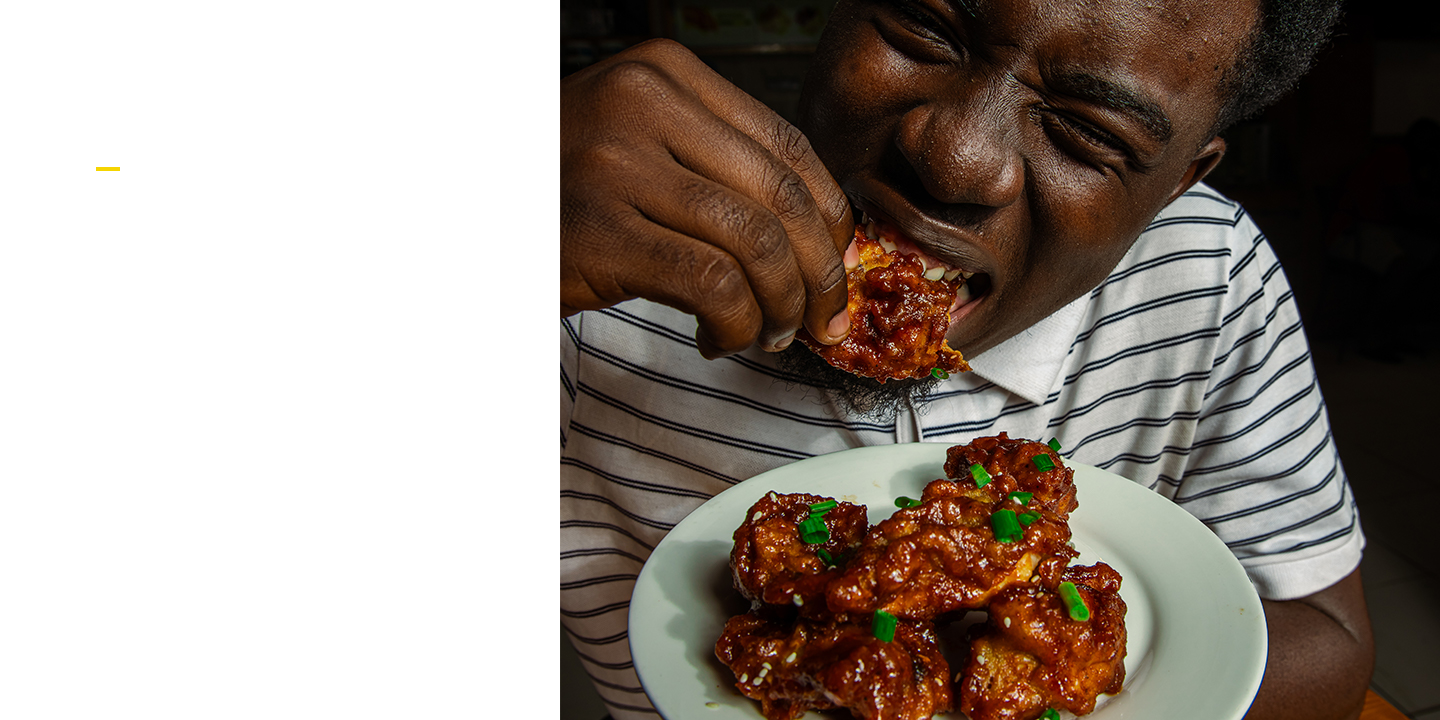
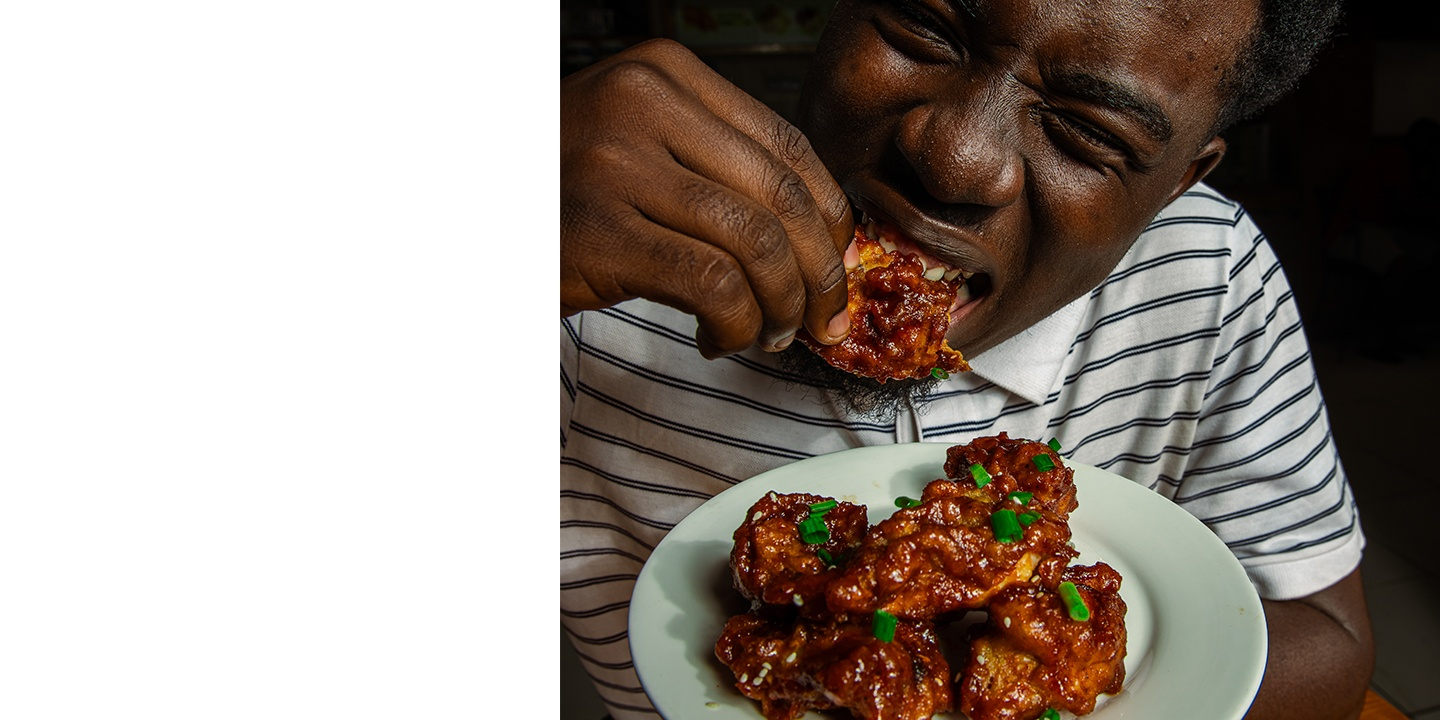
Refactor hero slider to full 1440x720 canvas with fading transition and single pill control

diff --git a/src/app/basilissa/page.tsx b/src/app/basilissa/page.tsx
@@ -2,7 +2,7 @@
 
 import { useState, useEffect, useCallback } from 'react';
 import Image from 'next/image';
-import { motion, AnimatePresence, type Variants } from 'framer-motion';
+import { motion, AnimatePresence } from 'framer-motion';
 
 interface HeroSlide {
   id: string;
@@ -159,21 +159,17 @@ const FOOD_ITEMS: FoodItem[] = [
 
 export default function BasilissaPage() {
   const [activeFood, setActiveFood] = useState<FoodItem>(FOOD_ITEMS[0]);
-  const [[currentSlide, direction], setSlidePage] = useState<[number, number]>([0, 0]);
+  const [currentSlide, setCurrentSlide] = useState(0);
   const [isHeroPaused, setIsHeroPaused] = useState(false);
   const [touchStartX, setTouchStartX] = useState<number | null>(null);
 
   const paginateHero = useCallback((newDirection: number) => {
-    setSlidePage(([prev]) => {
+    setCurrentSlide((prev) => {
       let nextIndex = prev + newDirection;
       if (nextIndex < 0) nextIndex = HERO_SLIDES.length - 1;
       if (nextIndex >= HERO_SLIDES.length) nextIndex = 0;
-      return [nextIndex, newDirection];
+      return nextIndex;
     });
-  }, []);
-
-  const goToHeroSlide = useCallback((index: number) => {
-    setSlidePage(([prev]) => [index, index > prev ? 1 : -1]);
   }, []);
 
   useEffect(() => {
@@ -203,33 +199,6 @@ export default function BasilissaPage() {
   };
 
   const activeHeroSlide = HERO_SLIDES[currentSlide];
-
-  const heroImageVariants: Variants = {
-    enter: (dir: number) => ({
-      x: dir > 0 ? '100%' : '-100%',
-      opacity: 0,
-      scale: 1.04,
-    }),
-    center: {
-      x: '0%',
-      opacity: 1,
-      scale: 1,
-      transition: {
-        x: { type: 'spring', stiffness: 240, damping: 28 },
-        opacity: { duration: 0.5 },
-        scale: { duration: 0.7, ease: 'easeOut' },
-      },
-    },
-    exit: (dir: number) => ({
-      x: dir < 0 ? '100%' : '-100%',
-      opacity: 0,
-      scale: 0.98,
-      transition: {
-        x: { type: 'spring', stiffness: 240, damping: 28 },
-        opacity: { duration: 0.4 },
-      },
-    }),
-  };
   return (
     <>
       <style dangerouslySetInnerHTML={{ __html: `
@@ -279,27 +248,18 @@ export default function BasilissaPage() {
                     .burger span{width:24px;height:2px;background:var(--black)}
 
                     /* Hero */
-                    .hero{position:relative;display:grid;grid-template-columns:minmax(0,560fr) minmax(0,880fr);max-width:1440px;margin:0 auto;align-items:stretch;min-height:580px}
-                    .hero-copy{padding:70px 48px 70px var(--gutter);display:flex;flex-direction:column;justify-content:center;position:relative;z-index:2}
-                    .hero h1{font-size:clamp(38px,3.7vw,53px);margin-bottom:28px}
-                    .hero p{font-size:18px;max-width:430px;margin-bottom:32px}
-                    .cta-row{display:flex;gap:12px;flex-wrap:wrap;margin-bottom:32px}
-                    .hero-controls{display:flex;align-items:center;gap:16px;padding-top:16px;border-top:1px solid var(--line);max-width:440px}
-                    .hero-dots{display:flex;align-items:center;gap:8px}
-                    .hero-dot{height:8px;width:24px;border-radius:4px;background:rgba(18,19,15,.15);border:none;cursor:pointer;padding:0;transition:all .3s cubic-bezier(.16,1,.3,1)}
-                    .hero-dot:hover{background:rgba(18,19,15,.35)}
-                    .hero-dot.active{background:var(--yellow);width:44px}
-                    .hero-counter{font-family:var(--head);font-size:13px;letter-spacing:.08em;font-weight:700;color:var(--black);margin-left:auto}
-                    .hero-arrows{display:flex;align-items:center;gap:8px}
-                    .hero-nav-btn{width:36px;height:36px;border-radius:50%;background:#fff;border:1.5px solid var(--black);display:flex;align-items:center;justify-content:center;color:var(--black);cursor:pointer;transition:all .2s ease}
-                    .hero-nav-btn:hover{background:var(--yellow);border-color:var(--yellow);transform:scale(1.05)}
-                    .hero-img{position:relative;width:100%;min-height:480px;overflow:hidden;background:#12130F;user-select:none}
+                    .hero{position:relative;max-width:1440px;margin:0 auto;aspect-ratio:1440/720;width:100%;min-height:540px;overflow:hidden;background:#fff}
+                    .hero-slider{position:absolute;inset:0;width:100%;height:100%;z-index:1;user-select:none}
                     .hero-slide-item{position:absolute;inset:0;width:100%;height:100%}
-                    .hero-img img{width:100%;height:100%;object-fit:cover}
-                    .hero-img-overlay-controls{position:absolute;bottom:20px;right:20px;z-index:10;display:flex;align-items:center;gap:10px;background:rgba(18,19,15,.75);backdrop-filter:blur(8px);padding:6px 14px;border-radius:30px;color:#fff;box-shadow:0 8px 24px rgba(0,0,0,.2)}
-                    .hero-img-overlay-btn{background:none;border:none;color:#fff;cursor:pointer;display:flex;align-items:center;justify-content:center;width:26px;height:26px;border-radius:50%;transition:all .2s ease}
-                    .hero-img-overlay-btn:hover{background:var(--yellow);color:var(--black)}
-                    .hero-img-overlay-counter{font-family:var(--head);font-size:12px;font-weight:700;letter-spacing:.12em;color:#fff;padding:0 4px}
+                    .hero-slide-img{width:100%;height:100%;object-fit:cover;object-position:right center}
+                    .hero-copy{position:relative;z-index:2;width:min(560px,39%);height:100%;display:flex;flex-direction:column;justify-content:center;padding:48px 28px 48px var(--gutter);pointer-events:auto}
+                    .hero h1{font-size:clamp(34px,3.5vw,53px);margin-bottom:24px}
+                    .hero p{font-size:clamp(15px,1.25vw,18px);max-width:430px;margin-bottom:28px}
+                    .cta-row{display:flex;gap:12px;flex-wrap:wrap}
+                    .hero-pill-controls{position:absolute;bottom:28px;right:28px;z-index:10;display:flex;align-items:center;gap:10px;background:rgba(18,19,15,.78);backdrop-filter:blur(8px);-webkit-backdrop-filter:blur(8px);padding:6px 14px;border-radius:30px;color:#fff;box-shadow:0 8px 24px rgba(0,0,0,.25);border:1px solid rgba(255,255,255,.12);user-select:none}
+                    .hero-pill-btn{background:none;border:none;color:#fff;cursor:pointer;display:flex;align-items:center;justify-content:center;width:26px;height:26px;border-radius:50%;transition:all .2s ease;padding:0}
+                    .hero-pill-btn:hover{background:var(--yellow);color:var(--black);transform:scale(1.1)}
+                    .hero-pill-counter{font-family:var(--head);font-size:12px;font-weight:700;letter-spacing:.12em;color:#fff;padding:0 4px}
                     .strip{height:89px;background:var(--yellow) url(/images/basilissa/hero/strip-pattern.jpg) center/auto 100% repeat-x}
 
                     /* About */
@@ -432,8 +392,11 @@ export default function BasilissaPage() {
                     .nav ul a{display:block;padding:12px 0}
                     #menu:checked~ul{display:flex}
                     .nav>.btn{padding:12px 16px;margin-left:auto}
-                    .hero,.about .wrap,.food-grid,.food-row,.loc-head,.corp-grid,.gallery,.careers-grid,.way-head,.cta .wrap{grid-template-columns:minmax(0,1fr)}
-                    .hero-copy{padding:56px var(--gutter)}
+                    .about .wrap,.food-grid,.food-row,.loc-head,.corp-grid,.gallery,.careers-grid,.way-head,.cta .wrap{grid-template-columns:minmax(0,1fr)}
+                    .hero{aspect-ratio:auto;min-height:auto;display:flex;flex-direction:column}
+                    .hero-copy{width:100%;max-width:100%;height:auto;padding:56px var(--gutter) 40px}
+                    .hero-slider{position:relative;inset:auto;width:100%;height:380px;min-height:300px;overflow:hidden}
+                    .hero-pill-controls{bottom:18px;right:18px}
                     .about,.stand,.food,.locations,.corp,.people,.way{padding-top:80px;padding-bottom:80px}
                     .about-img{max-width:min(400px,100%)}
                     .stand-head{flex-direction:column;align-items:flex-start}
@@ -448,6 +411,8 @@ export default function BasilissaPage() {
                     footer .wrap{grid-template-columns:1fr 1fr;row-gap:40px;padding-top:64px}
                     }
                     @media (max-width:600px){
+                    .hero-slider{height:300px;min-height:250px}
+                    .hero-pill-controls{bottom:14px;right:14px}
                     .cols,.cards,.tracks,.pillars{grid-template-columns:minmax(0,1fr)}
                     .stats,.values{grid-template-columns:1fr 1fr}
                     .strip{height:60px}
@@ -490,81 +455,18 @@ export default function BasilissaPage() {
         onMouseLeave={() => setIsHeroPaused(false)}
       >
         <div className="hero">
-          <div className="hero-copy">
-            <motion.div
-              key={activeHeroSlide.id}
-              initial={{ opacity: 0.9 }}
-              animate={{ opacity: 1 }}
-              transition={{ duration: 0.35 }}
-            >
-              <div className="eyebrow">{activeHeroSlide.eyebrow}</div>
-              <h1>{activeHeroSlide.title}</h1>
-              <p>{activeHeroSlide.description}</p>
-              <div className="cta-row">
-                <a className="btn btn-black" href={activeHeroSlide.primaryCta.href}>
-                  {activeHeroSlide.primaryCta.label}
-                </a>
-                <a className="btn btn-yellow" href={activeHeroSlide.secondaryCta.href}>
-                  {activeHeroSlide.secondaryCta.label}
-                </a>
-              </div>
-            </motion.div>
-
-            <div className="hero-controls" aria-label="Hero slider controls">
-              <div className="hero-dots" role="tablist" aria-label="Slide selectors">
-                {HERO_SLIDES.map((slide, idx) => (
-                  <button
-                    key={slide.id}
-                    type="button"
-                    role="tab"
-                    aria-selected={idx === currentSlide}
-                    aria-label={`Go to slide ${idx + 1}`}
-                    onClick={() => goToHeroSlide(idx)}
-                    className={`hero-dot ${idx === currentSlide ? 'active' : ''}`}
-                  />
-                ))}
-              </div>
-              <span className="hero-counter" aria-live="polite">
-                0{currentSlide + 1} / 0{HERO_SLIDES.length}
-              </span>
-              <div className="hero-arrows">
-                <button
-                  type="button"
-                  onClick={() => paginateHero(-1)}
-                  aria-label="Previous slide"
-                  className="hero-nav-btn"
-                >
-                  <svg width="14" height="14" viewBox="0 0 24 24" fill="none" stroke="currentColor" strokeWidth="2.5" strokeLinecap="round" strokeLinejoin="round">
-                    <polyline points="15 18 9 12 15 6" />
-                  </svg>
-                </button>
-                <button
-                  type="button"
-                  onClick={() => paginateHero(1)}
-                  aria-label="Next slide"
-                  className="hero-nav-btn"
-                >
-                  <svg width="14" height="14" viewBox="0 0 24 24" fill="none" stroke="currentColor" strokeWidth="2.5" strokeLinecap="round" strokeLinejoin="round">
-                    <polyline points="9 18 15 12 9 6" />
-                  </svg>
-                </button>
-              </div>
-            </div>
-          </div>
-
           <div
-            className="hero-img"
+            className="hero-slider"
             onTouchStart={handleHeroTouchStart}
             onTouchEnd={handleHeroTouchEnd}
           >
-            <AnimatePresence custom={direction} initial={false}>
+            <AnimatePresence initial={false}>
               <motion.div
                 key={activeHeroSlide.id}
-                custom={direction}
-                variants={heroImageVariants}
-                initial="enter"
-                animate="center"
-                exit="exit"
+                initial={{ opacity: 0 }}
+                animate={{ opacity: 1 }}
+                exit={{ opacity: 0 }}
+                transition={{ duration: 0.8, ease: 'easeInOut' }}
                 className="hero-slide-item"
               >
                 <Image
@@ -572,37 +474,66 @@ export default function BasilissaPage() {
                   alt={activeHeroSlide.alt}
                   fill
                   priority={currentSlide === 0}
-                  sizes="(max-width: 900px) 100vw, 60vw"
-                  className="w-full h-full object-cover"
+                  sizes="(max-width: 960px) 100vw, 1440px"
+                  className="hero-slide-img"
                 />
               </motion.div>
             </AnimatePresence>
 
-            <div className="hero-img-overlay-controls" aria-hidden="true">
-              <button
-                type="button"
-                onClick={() => paginateHero(-1)}
-                aria-label="Previous slide"
-                className="hero-img-overlay-btn"
-              >
-                <svg width="14" height="14" viewBox="0 0 24 24" fill="none" stroke="currentColor" strokeWidth="2.5" strokeLinecap="round" strokeLinejoin="round">
-                  <polyline points="15 18 9 12 15 6" />
-                </svg>
-              </button>
-              <span className="hero-img-overlay-counter">
-                0{currentSlide + 1} / 0{HERO_SLIDES.length}
-              </span>
-              <button
-                type="button"
-                onClick={() => paginateHero(1)}
-                aria-label="Next slide"
-                className="hero-img-overlay-btn"
-              >
-                <svg width="14" height="14" viewBox="0 0 24 24" fill="none" stroke="currentColor" strokeWidth="2.5" strokeLinecap="round" strokeLinejoin="round">
-                  <polyline points="9 18 15 12 9 6" />
-                </svg>
-              </button>
+            <div style={{ display: 'none' }} aria-hidden="true">
+              {HERO_SLIDES.map((slide, idx) => (
+                idx !== currentSlide && (
+                  <Image
+                    key={`preload-${slide.id}`}
+                    src={slide.image}
+                    alt=""
+                    width={1440}
+                    height={720}
+                    priority
+                  />
+                )
+              ))}
             </div>
+          </div>
+
+          <div className="hero-copy">
+            <div className="eyebrow">{activeHeroSlide.eyebrow}</div>
+            <h1>{activeHeroSlide.title}</h1>
+            <p>{activeHeroSlide.description}</p>
+            <div className="cta-row">
+              <a className="btn btn-black" href={activeHeroSlide.primaryCta.href}>
+                {activeHeroSlide.primaryCta.label}
+              </a>
+              <a className="btn btn-yellow" href={activeHeroSlide.secondaryCta.href}>
+                {activeHeroSlide.secondaryCta.label}
+              </a>
+            </div>
+          </div>
+
+          <div className="hero-pill-controls" aria-label="Hero carousel navigation">
+            <button
+              type="button"
+              onClick={() => paginateHero(-1)}
+              aria-label="Previous slide"
+              className="hero-pill-btn"
+            >
+              <svg width="14" height="14" viewBox="0 0 24 24" fill="none" stroke="currentColor" strokeWidth="2.5" strokeLinecap="round" strokeLinejoin="round">
+                <polyline points="15 18 9 12 15 6" />
+              </svg>
+            </button>
+            <span className="hero-pill-counter" aria-live="polite">
+              0{currentSlide + 1} / 0{HERO_SLIDES.length}
+            </span>
+            <button
+              type="button"
+              onClick={() => paginateHero(1)}
+              aria-label="Next slide"
+              className="hero-pill-btn"
+            >
+              <svg width="14" height="14" viewBox="0 0 24 24" fill="none" stroke="currentColor" strokeWidth="2.5" strokeLinecap="round" strokeLinejoin="round">
+                <polyline points="9 18 15 12 9 6" />
+              </svg>
+            </button>
           </div>
         </div>
         <div className="strip" role="img" aria-label="Basilissa brand pattern: La Foi, L'Amour and Adinkra symbols"></div>
